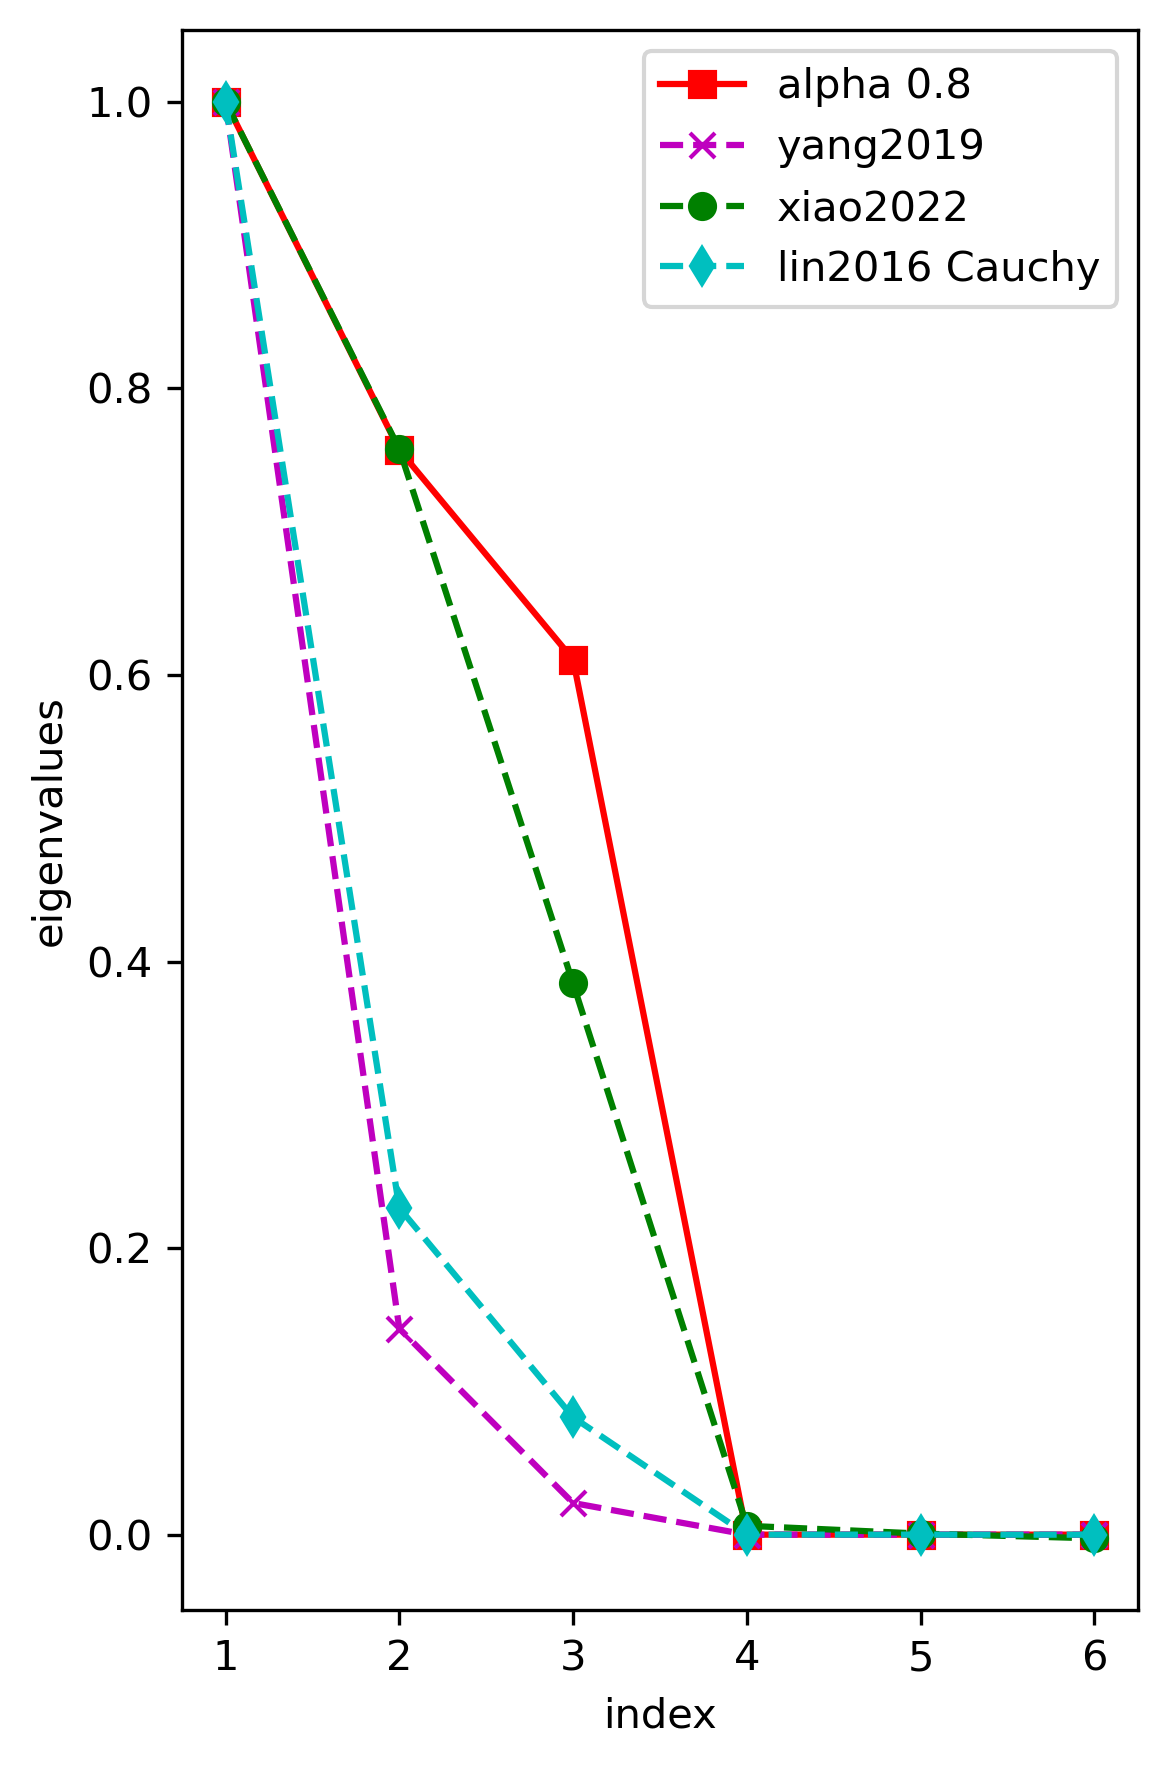
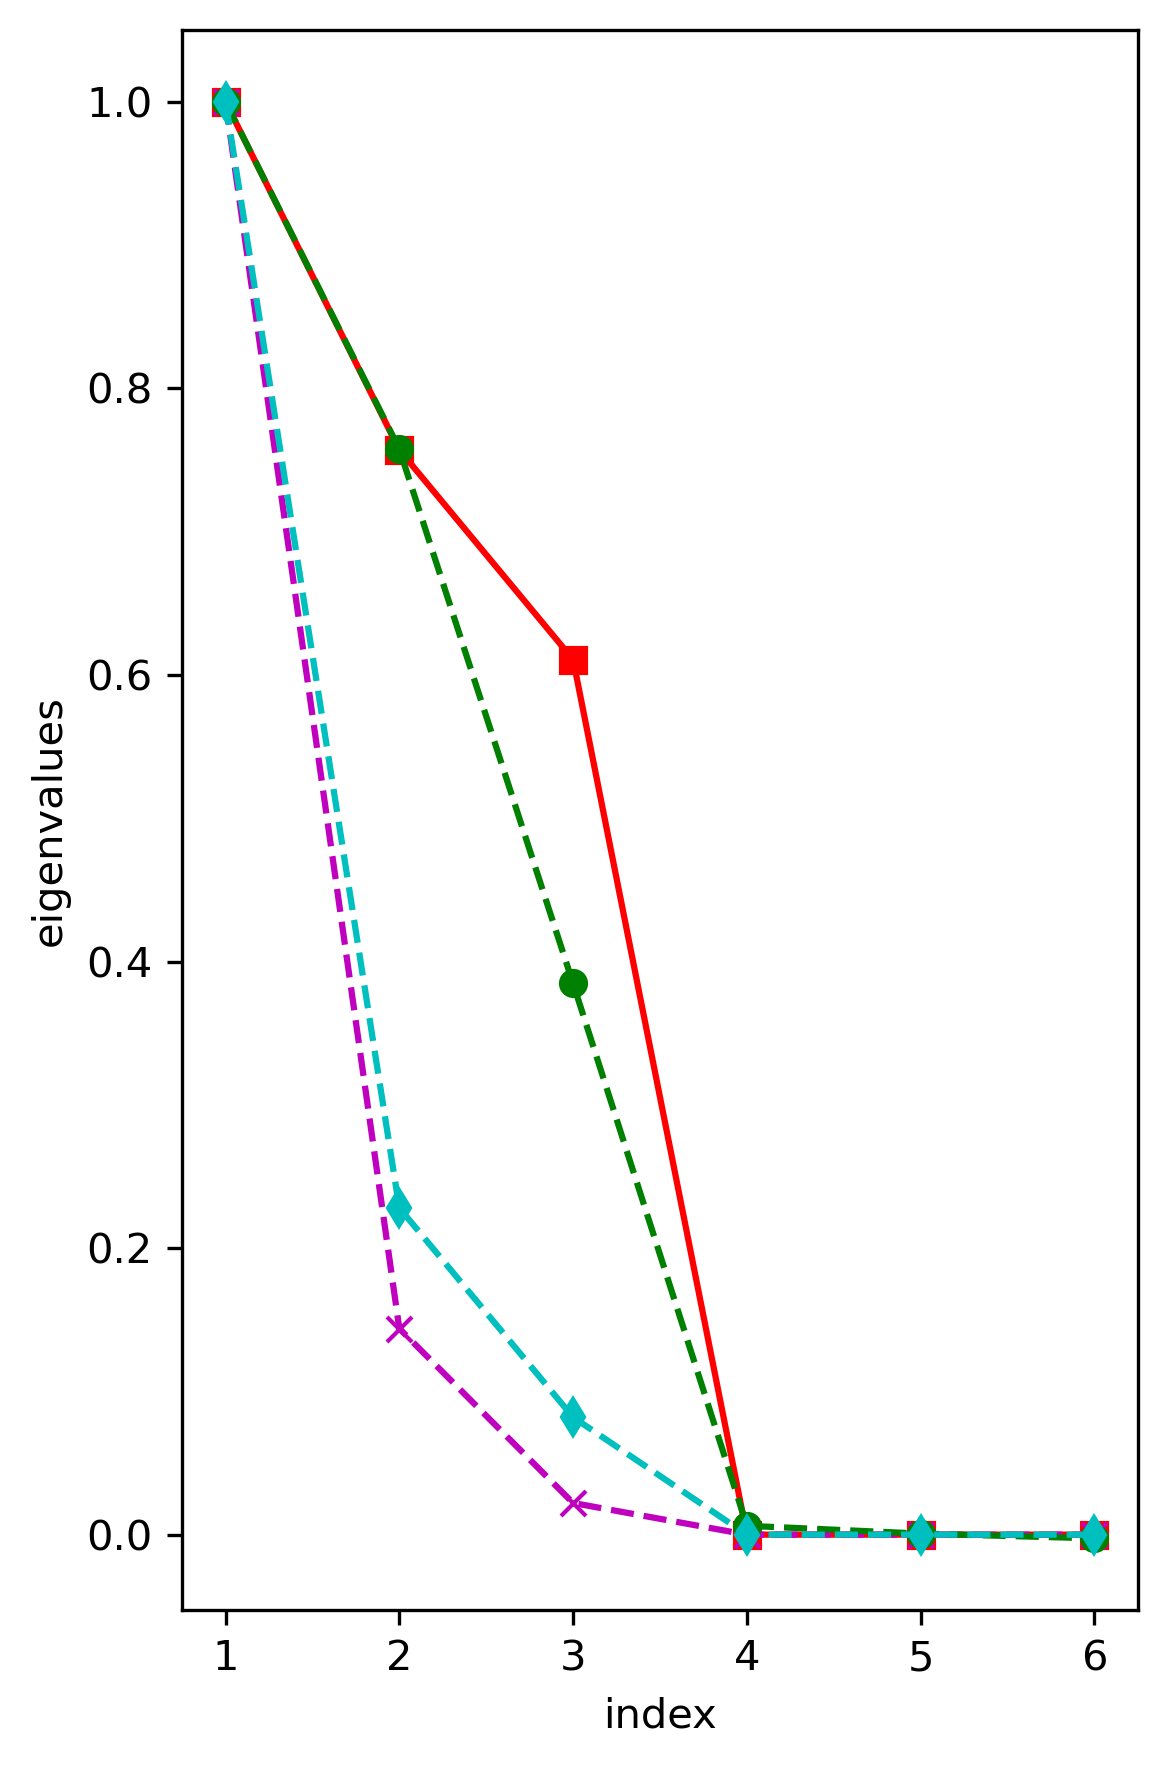
added another case

Changed region(s): [[0.6787, 0.0311, 0.9563, 0.1869], [0.5244, 0.0311, 0.6478, 0.1869]]

diff --git a/sim_xiao2022_case.py b/sim_xiao2022_case.py
@@ -112,7 +112,7 @@ if __name__ == "__main__":
     plt.xlabel('index')
     plt.ylabel('eigenvalues')
 
-    plt.legend()
+    # plt.legend()
     plt.tight_layout()
 
     plt.savefig("figures/eigenvalues-xiao.png", dpi=300, bbox_inches='tight')
@@ -137,7 +137,7 @@ if __name__ == "__main__":
 
     plt.xlabel('time')
     plt.ylabel('tracking error')
-    plt.legend()
+    # plt.legend()
     plt.tight_layout()
     plt.yscale('log')
 
